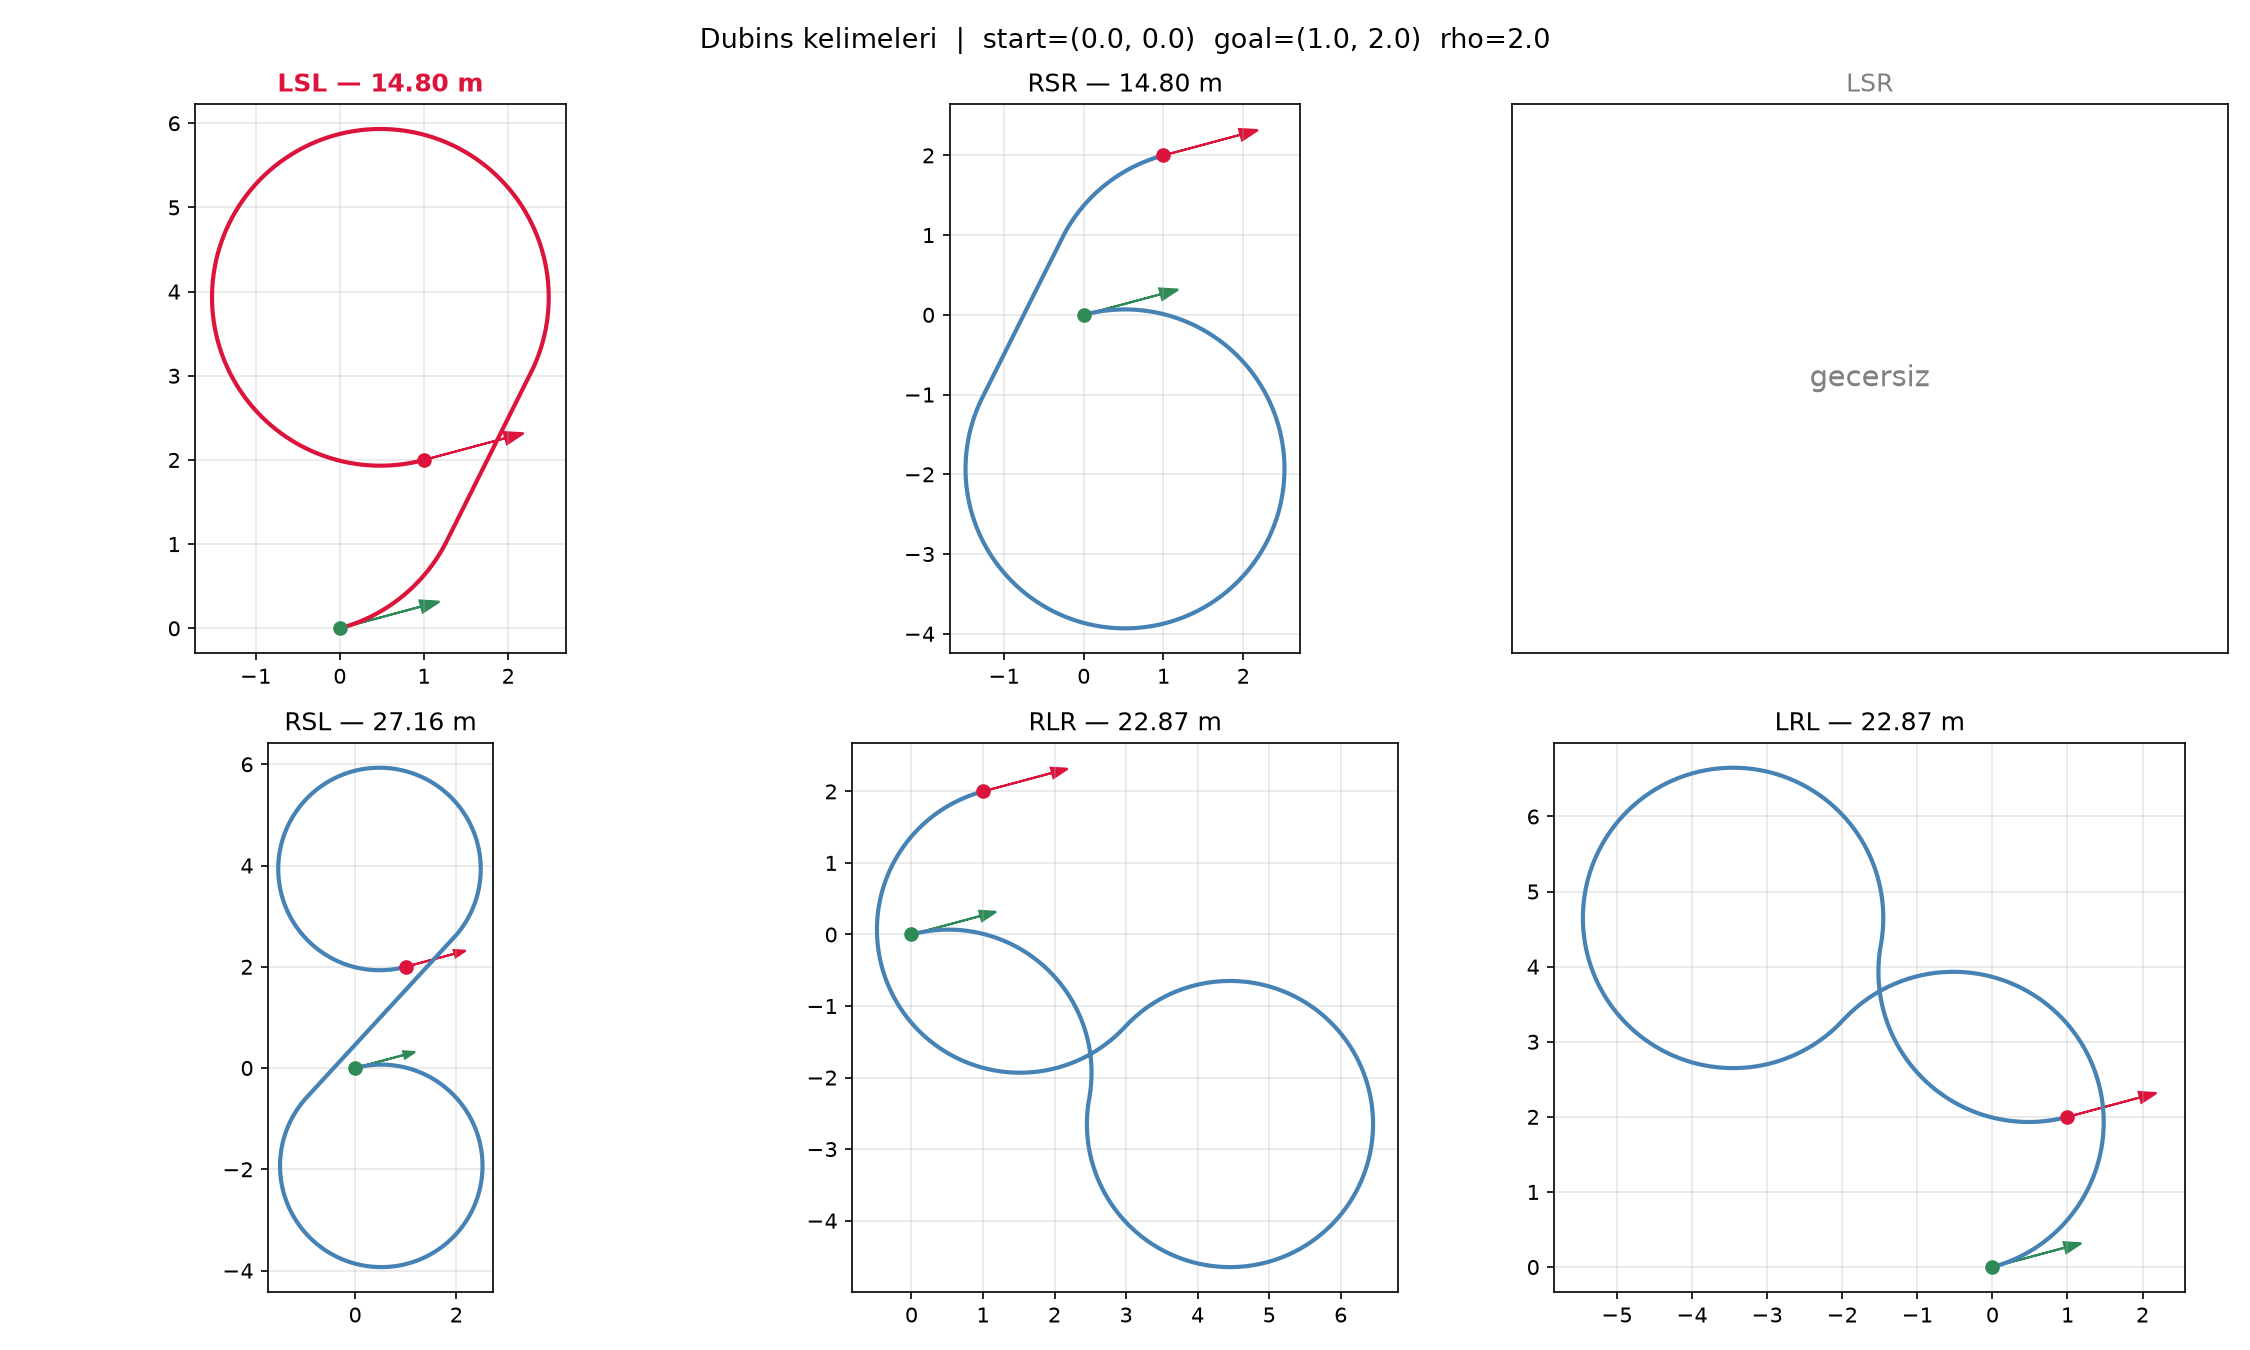
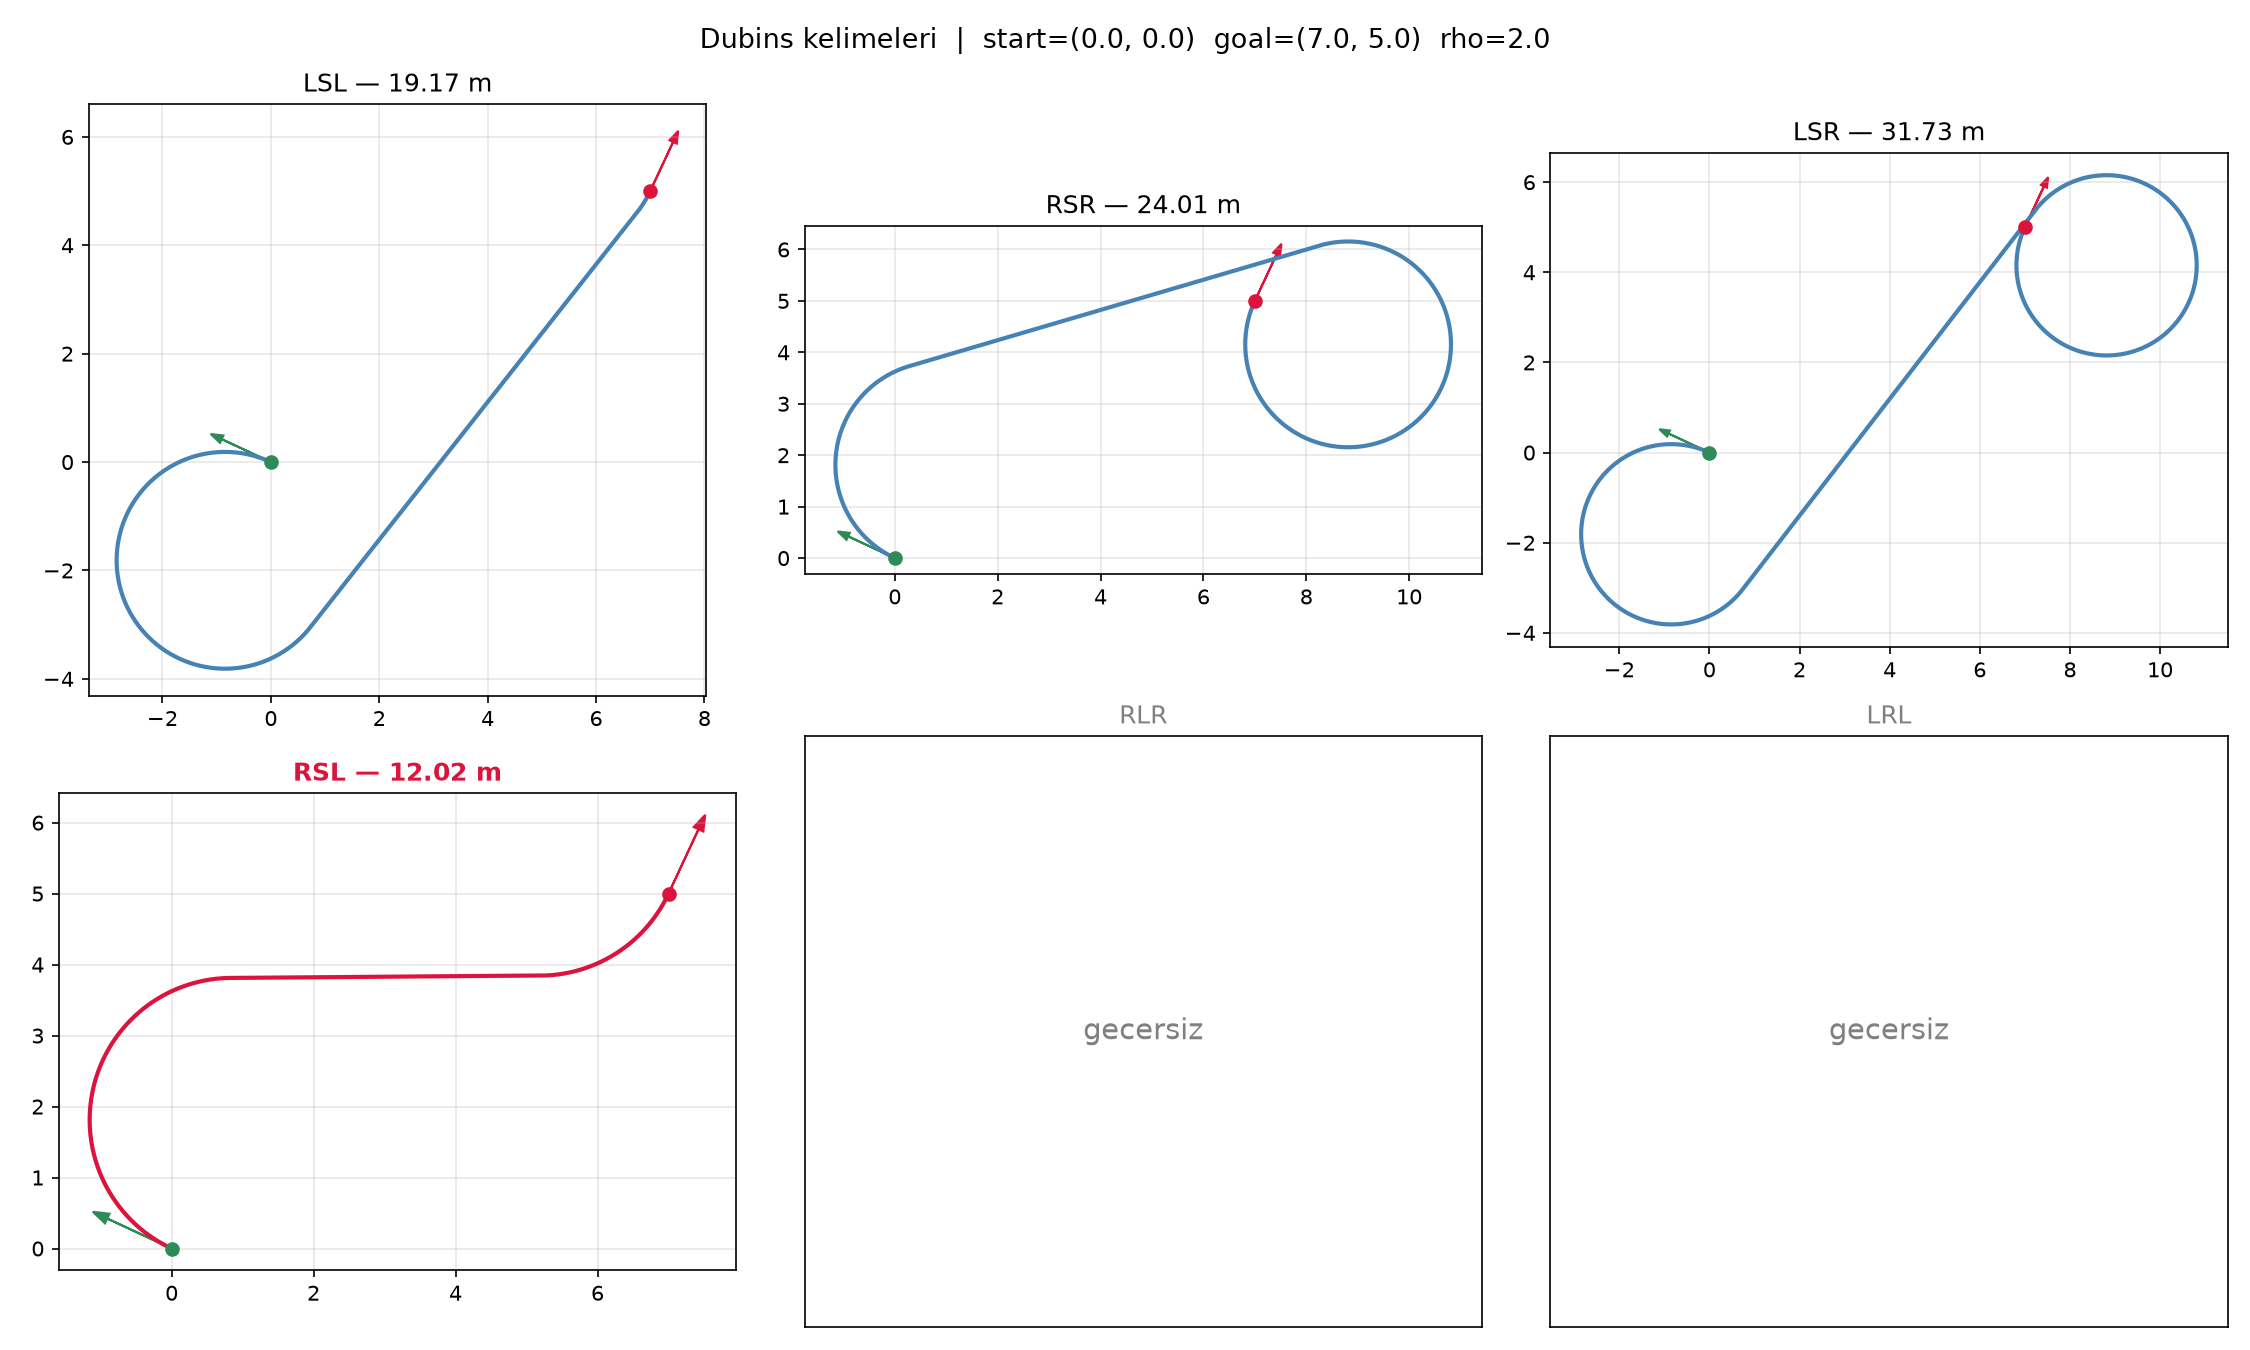
Docstring sadelestirme, demo parametreleri ve calistirma notlari
Cozucu docstring'leri tek satira indirildi, demo START/GOAL/RHO degerleri
guncellendi, calistirma komutlari not dosyasina yazildi.

diff --git a/src/dubins.py b/src/dubins.py
@@ -24,7 +24,7 @@ Pose = tuple[float, float, float]
 _EPS = 1e-12
 
 
-@dataclass(frozen=True)
+@dataclass(frozen=True) #obje oluştuktan sonra değerler değişemiyor
 class DubinsPath:
     """Cozulmus bir Dubins yolu.
 
@@ -38,8 +38,6 @@ class DubinsPath:
             carpilmalidir.
         rho: Donus yaricapi, metre.
 
-    Nesne degistirilemez (frozen): RRT* agacinda binlerce yol saklanacak
-    ve birinin sessizce degismesi maliyet muhasebesini bozar.
     """
 
     start: Pose
@@ -68,7 +66,6 @@ class DubinsPath:
         return pose
 
     def end_pose(self) -> Pose:
-        """Yolun bittigi poz."""
         return self.interpolate(self.length)
 
     def sample(self, step: float) -> list[Pose]:
@@ -93,11 +90,6 @@ class DubinsPath:
 
 
 def _mod2pi(theta: float) -> float:
-    """Aciyi [0, 2*pi) araligina indirger.
-
-    Python'un % operatoru bolenin isaretini aldigi icin negatif girdide de
-    pozitif sonuc doner; math.fmod bunu yapmaz.
-    """
     theta = theta % (2 * math.pi)
     return theta
 
@@ -151,12 +143,6 @@ def _to_canonical(start: Pose, goal: Pose, rho: float) -> tuple[float, float, fl
 
 
 def _safe_sqrt(value: float) -> float | None:
-    """Karekok alir; kelime gecersizse None doner.
-
-    Uc durum var. Matematiksel olarak tam sifir olmasi gereken bir deger
-    kayan noktada -4e-16 gibi cikabilir; ona bakip kelimeyi elemek var olan
-    bir yolu atmak olur. Bu yuzden kucuk negatifler sifira kirpilir.
-    """
     if value < -_EPS:
         return None
     if value < 0.0:
@@ -165,11 +151,7 @@ def _safe_sqrt(value: float) -> float | None:
 
 
 def _lsl(d: float, alpha: float, beta: float) -> tuple[float, float, float] | None:
-    """Sola don, duz git, sola don.
-
-    Normalize (t, p, q) doner: t ve q radyan donus acilari, p rho birimi
-    duz mesafe. Kelime geometrik olarak imkansizsa None.
-    """
+    """Sola don, duz git, sola don."""
     sa = math.sin(alpha)
     sb = math.sin(beta)
     ca = math.cos(alpha)
@@ -188,11 +170,7 @@ def _lsl(d: float, alpha: float, beta: float) -> tuple[float, float, float] | No
 
 
 def _rsr(d: float, alpha: float, beta: float) -> tuple[float, float, float] | None:
-    """Saga don, duz git, saga don.
-
-    Normalize (t, p, q) doner: t ve q radyan donus acilari, p rho birimi
-    duz mesafe. Kelime geometrik olarak imkansizsa None.
-    """
+    """Saga don, duz git, saga don."""
     sa = math.sin(alpha)
     sb = math.sin(beta)
     ca = math.cos(alpha)
@@ -211,11 +189,7 @@ def _rsr(d: float, alpha: float, beta: float) -> tuple[float, float, float] | No
 
 
 def _lsr(d: float, alpha: float, beta: float) -> tuple[float, float, float] | None:
-    """Sola don, duz git, saga don.
-
-    Normalize (t, p, q) doner: t ve q radyan donus acilari, p rho birimi
-    duz mesafe. Kelime geometrik olarak imkansizsa None.
-    """
+    """Sola don, duz git, saga don."""
     sa = math.sin(alpha)
     sb = math.sin(beta)
     ca = math.cos(alpha)
@@ -233,11 +207,7 @@ def _lsr(d: float, alpha: float, beta: float) -> tuple[float, float, float] | No
 
 
 def _rsl(d: float, alpha: float, beta: float) -> tuple[float, float, float] | None:
-    """Saga don, duz git, sola don.
-
-    Normalize (t, p, q) doner: t ve q radyan donus acilari, p rho birimi
-    duz mesafe. Kelime geometrik olarak imkansizsa None.
-    """
+    """Saga don, duz git, sola don. """
     sa = math.sin(alpha)
     sb = math.sin(beta)
     ca = math.cos(alpha)
@@ -257,11 +227,7 @@ def _rsl(d: float, alpha: float, beta: float) -> tuple[float, float, float] | No
 
 
 def _rlr(d: float, alpha: float, beta: float) -> tuple[float, float, float] | None:
-    """Saga don, sola don, saga don.
-
-    Uc segment de yay; normalize (t, p, q) ucu de radyandir. Yalnizca
-    d < 4 iken gecerlidir, aksi halde None.
-    """
+    """Saga don, sola don, saga don."""
     sa = math.sin(alpha)
     sb = math.sin(beta)
     ca = math.cos(alpha)
@@ -279,11 +245,7 @@ def _rlr(d: float, alpha: float, beta: float) -> tuple[float, float, float] | No
 
 
 def _lrl(d: float, alpha: float, beta: float) -> tuple[float, float, float] | None:
-    """Sola don, saga don, sola don.
-
-    Uc segment de yay; normalize (t, p, q) ucu de radyandir. Yalnizca
-    d < 4 iken gecerlidir, aksi halde None.
-    """
+    """Sola don, saga don, sola don."""
     sa = math.sin(alpha)
     sb = math.sin(beta)
     ca = math.cos(alpha)
@@ -352,8 +314,6 @@ def shortest_path(start: Pose, goal: Pose, rho: float) -> DubinsPath:
 
 def path_length(start: Pose, goal: Pose, rho: float) -> float:
     """En kisa Dubins yolunun uzunlugu (metre).
-
-    RRT* icin maliyet metrigi. Yolun kendisi gerekmiyorsa bunu kullan.
 
     Raises:
         ValueError: rho pozitif degilse.

diff --git a/Çalıştırma Komutları.md b/Çalıştırma Komutları.md
@@ -1,0 +1,11 @@
+projenin kökünde iken (CMD):
+
+dubins_demo çalıştırmak için : .\venv\Scripts\python.exe -m notebooks.dubins_demo
+
+dubins_benchmark çalıştırmak için : venv\Scripts\python.exe -m notebooks.dubins_benchmark
+
+
+
+
+
+
